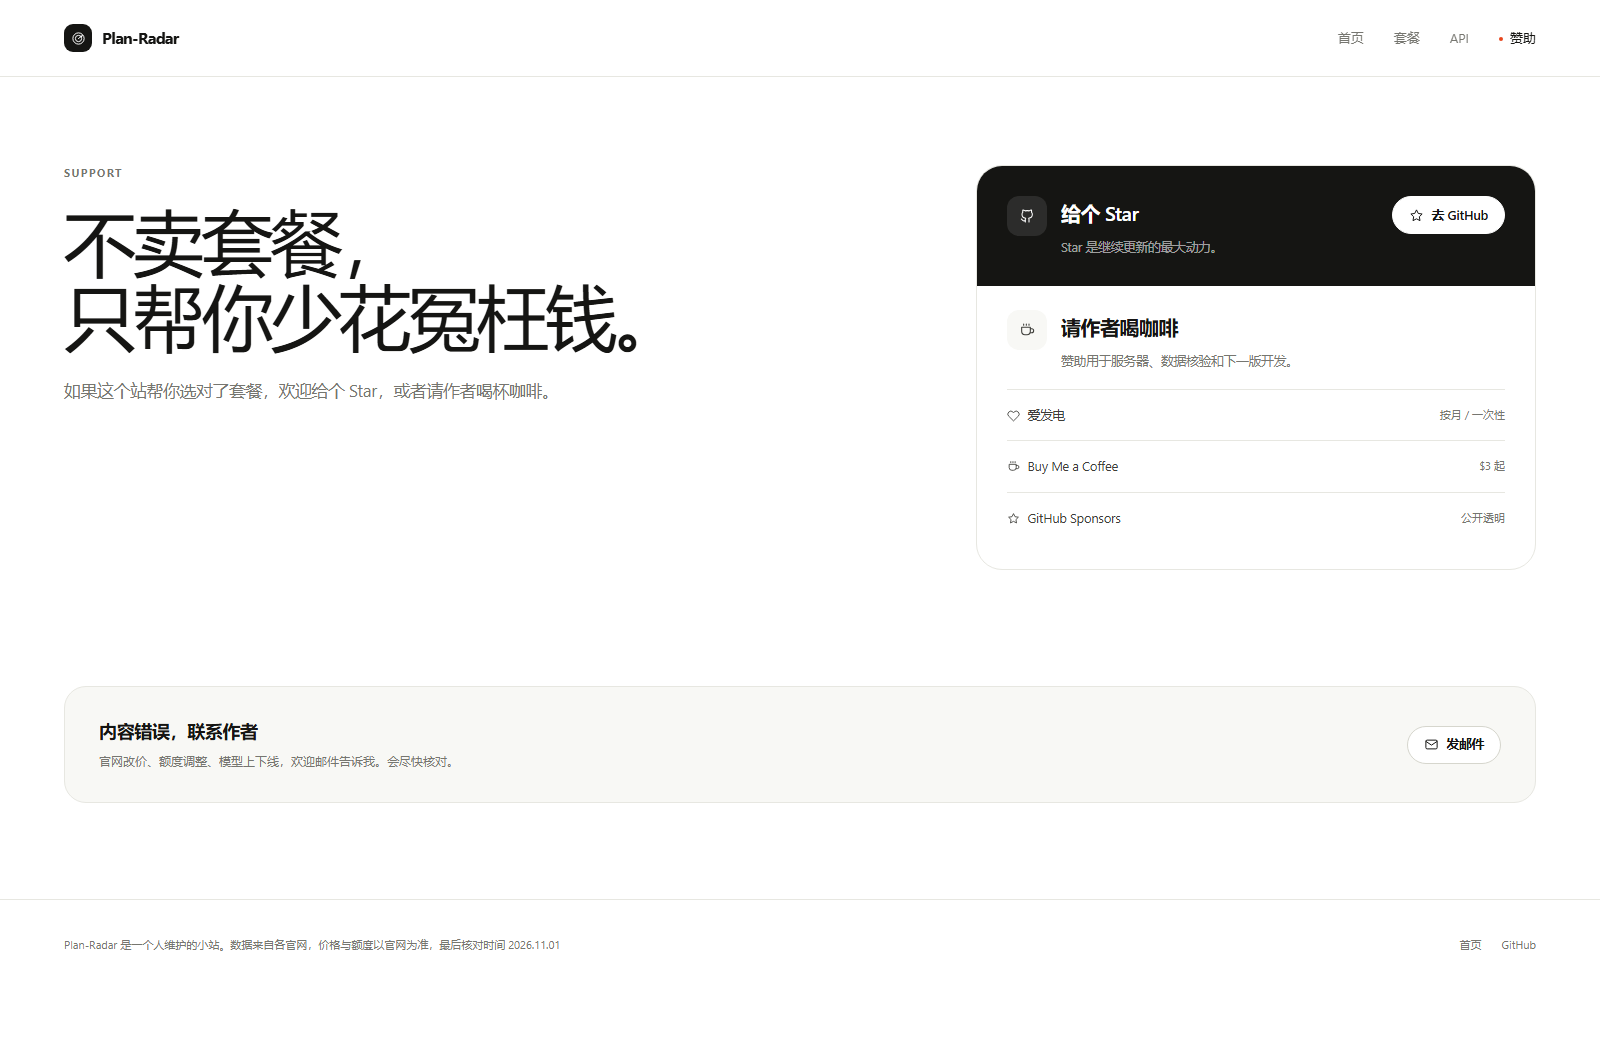
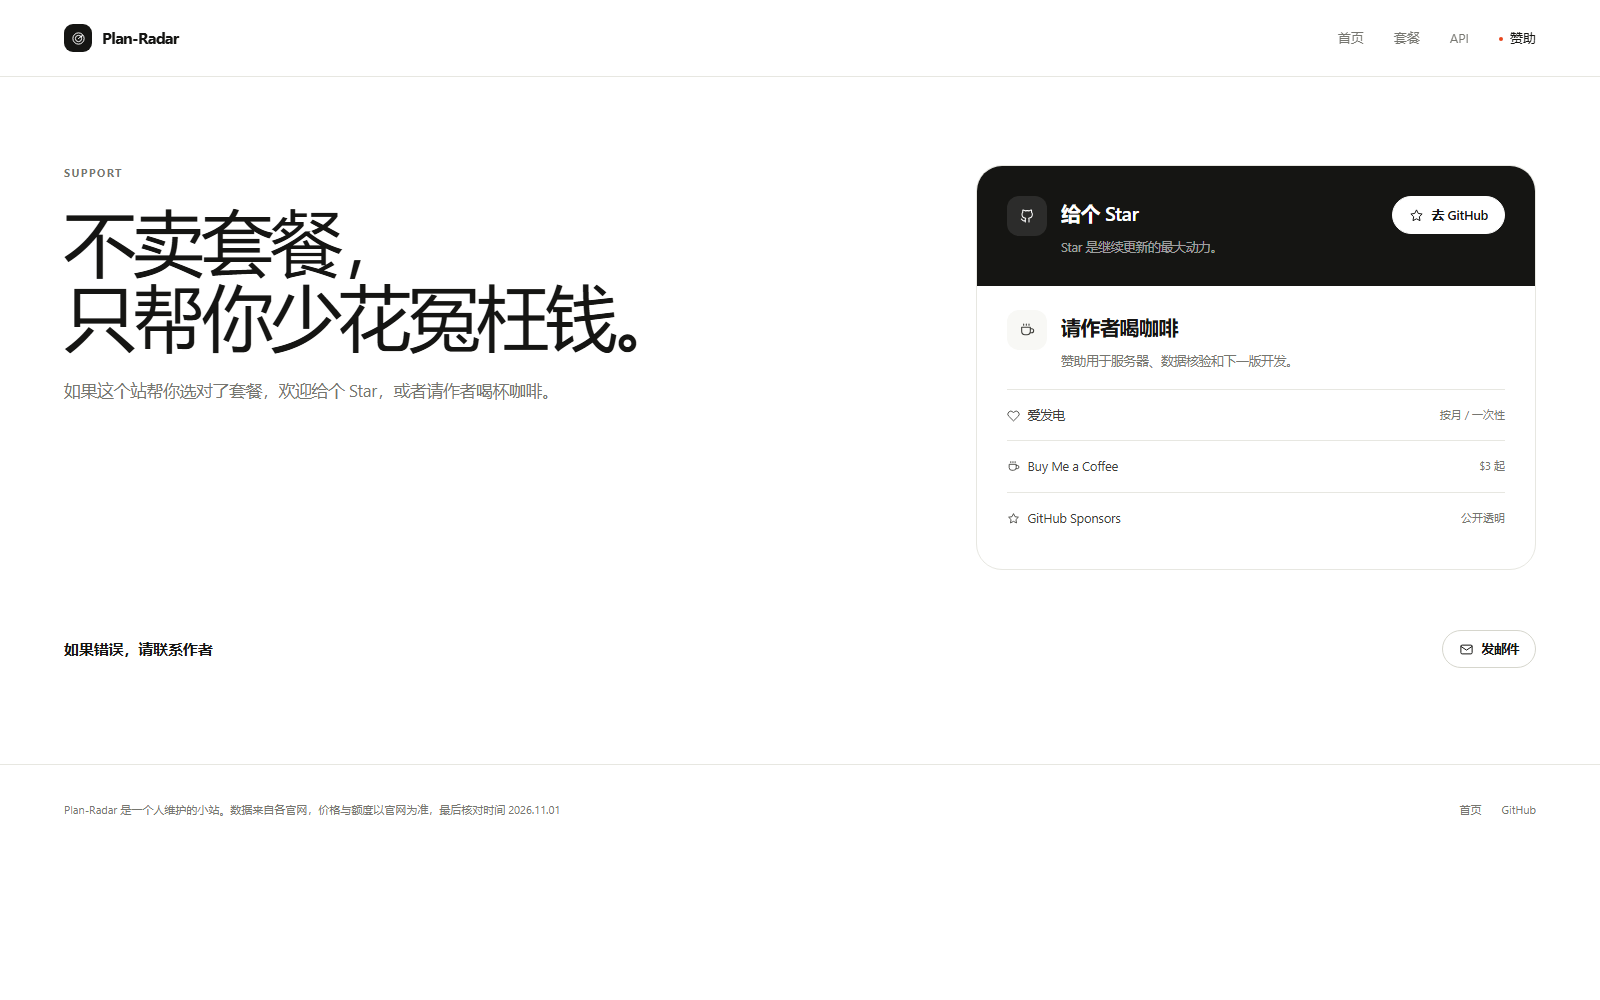
fix: compact correction row

diff --git a/app/globals.css b/app/globals.css
@@ -840,7 +840,7 @@ h1, h2, h3, p { margin: 0; }
 
 /* ---------- sponsor ---------- */
 
-.support-hero { padding: 88px 0 60px; }
+.support-hero { padding: 88px 0 36px; }
 .support-hero .display { max-width: 820px; }
 .support-hero .lead { margin-top: 24px; }
 
@@ -959,14 +959,14 @@ h1, h2, h3, p { margin: 0; }
   display: flex;
   align-items: center;
   justify-content: space-between;
-  gap: 30px;
-  margin-top: 56px;
-  padding: 30px 34px;
-  border: 1px solid var(--line);
-  border-radius: var(--radius);
-  background: var(--soft);
+  gap: 24px;
+  margin-top: 24px;
+  padding: 0;
+  border: 0;
+  border-radius: 0;
+  background: transparent;
 }
-.correction h3 { font-size: 18px; font-weight: 550; letter-spacing: -0.02em; }
+.correction h3 { font-size: 15px; font-weight: 550; letter-spacing: -0.01em; }
 .correction p { margin-top: 5px; font-size: 12px; color: var(--muted); }
 .correction-actions { display: flex; gap: 8px; flex-shrink: 0; }
 

diff --git a/app/sponsor/page.tsx b/app/sponsor/page.tsx
@@ -75,15 +75,10 @@ export default function SponsorPage() {
 
       <div className="wrap">
         <div className="correction">
-          <div>
-            <h3>内容错误，联系作者</h3>
-            <p>官网改价、额度调整、模型上下线，欢迎邮件告诉我。会尽快核对。</p>
-          </div>
-          <div className="correction-actions">
-            <a className="btn secondary small" href="mailto:hello@plan-radar.dev">
-              <Icon name="mail" className="icon icon-sm" /> 发邮件
-            </a>
-          </div>
+          <h3>如果错误，请联系作者</h3>
+          <a className="btn secondary small" href="mailto:hello@plan-radar.dev">
+            <Icon name="mail" className="icon icon-sm" /> 发邮件
+          </a>
         </div>
       </div>
     </>
